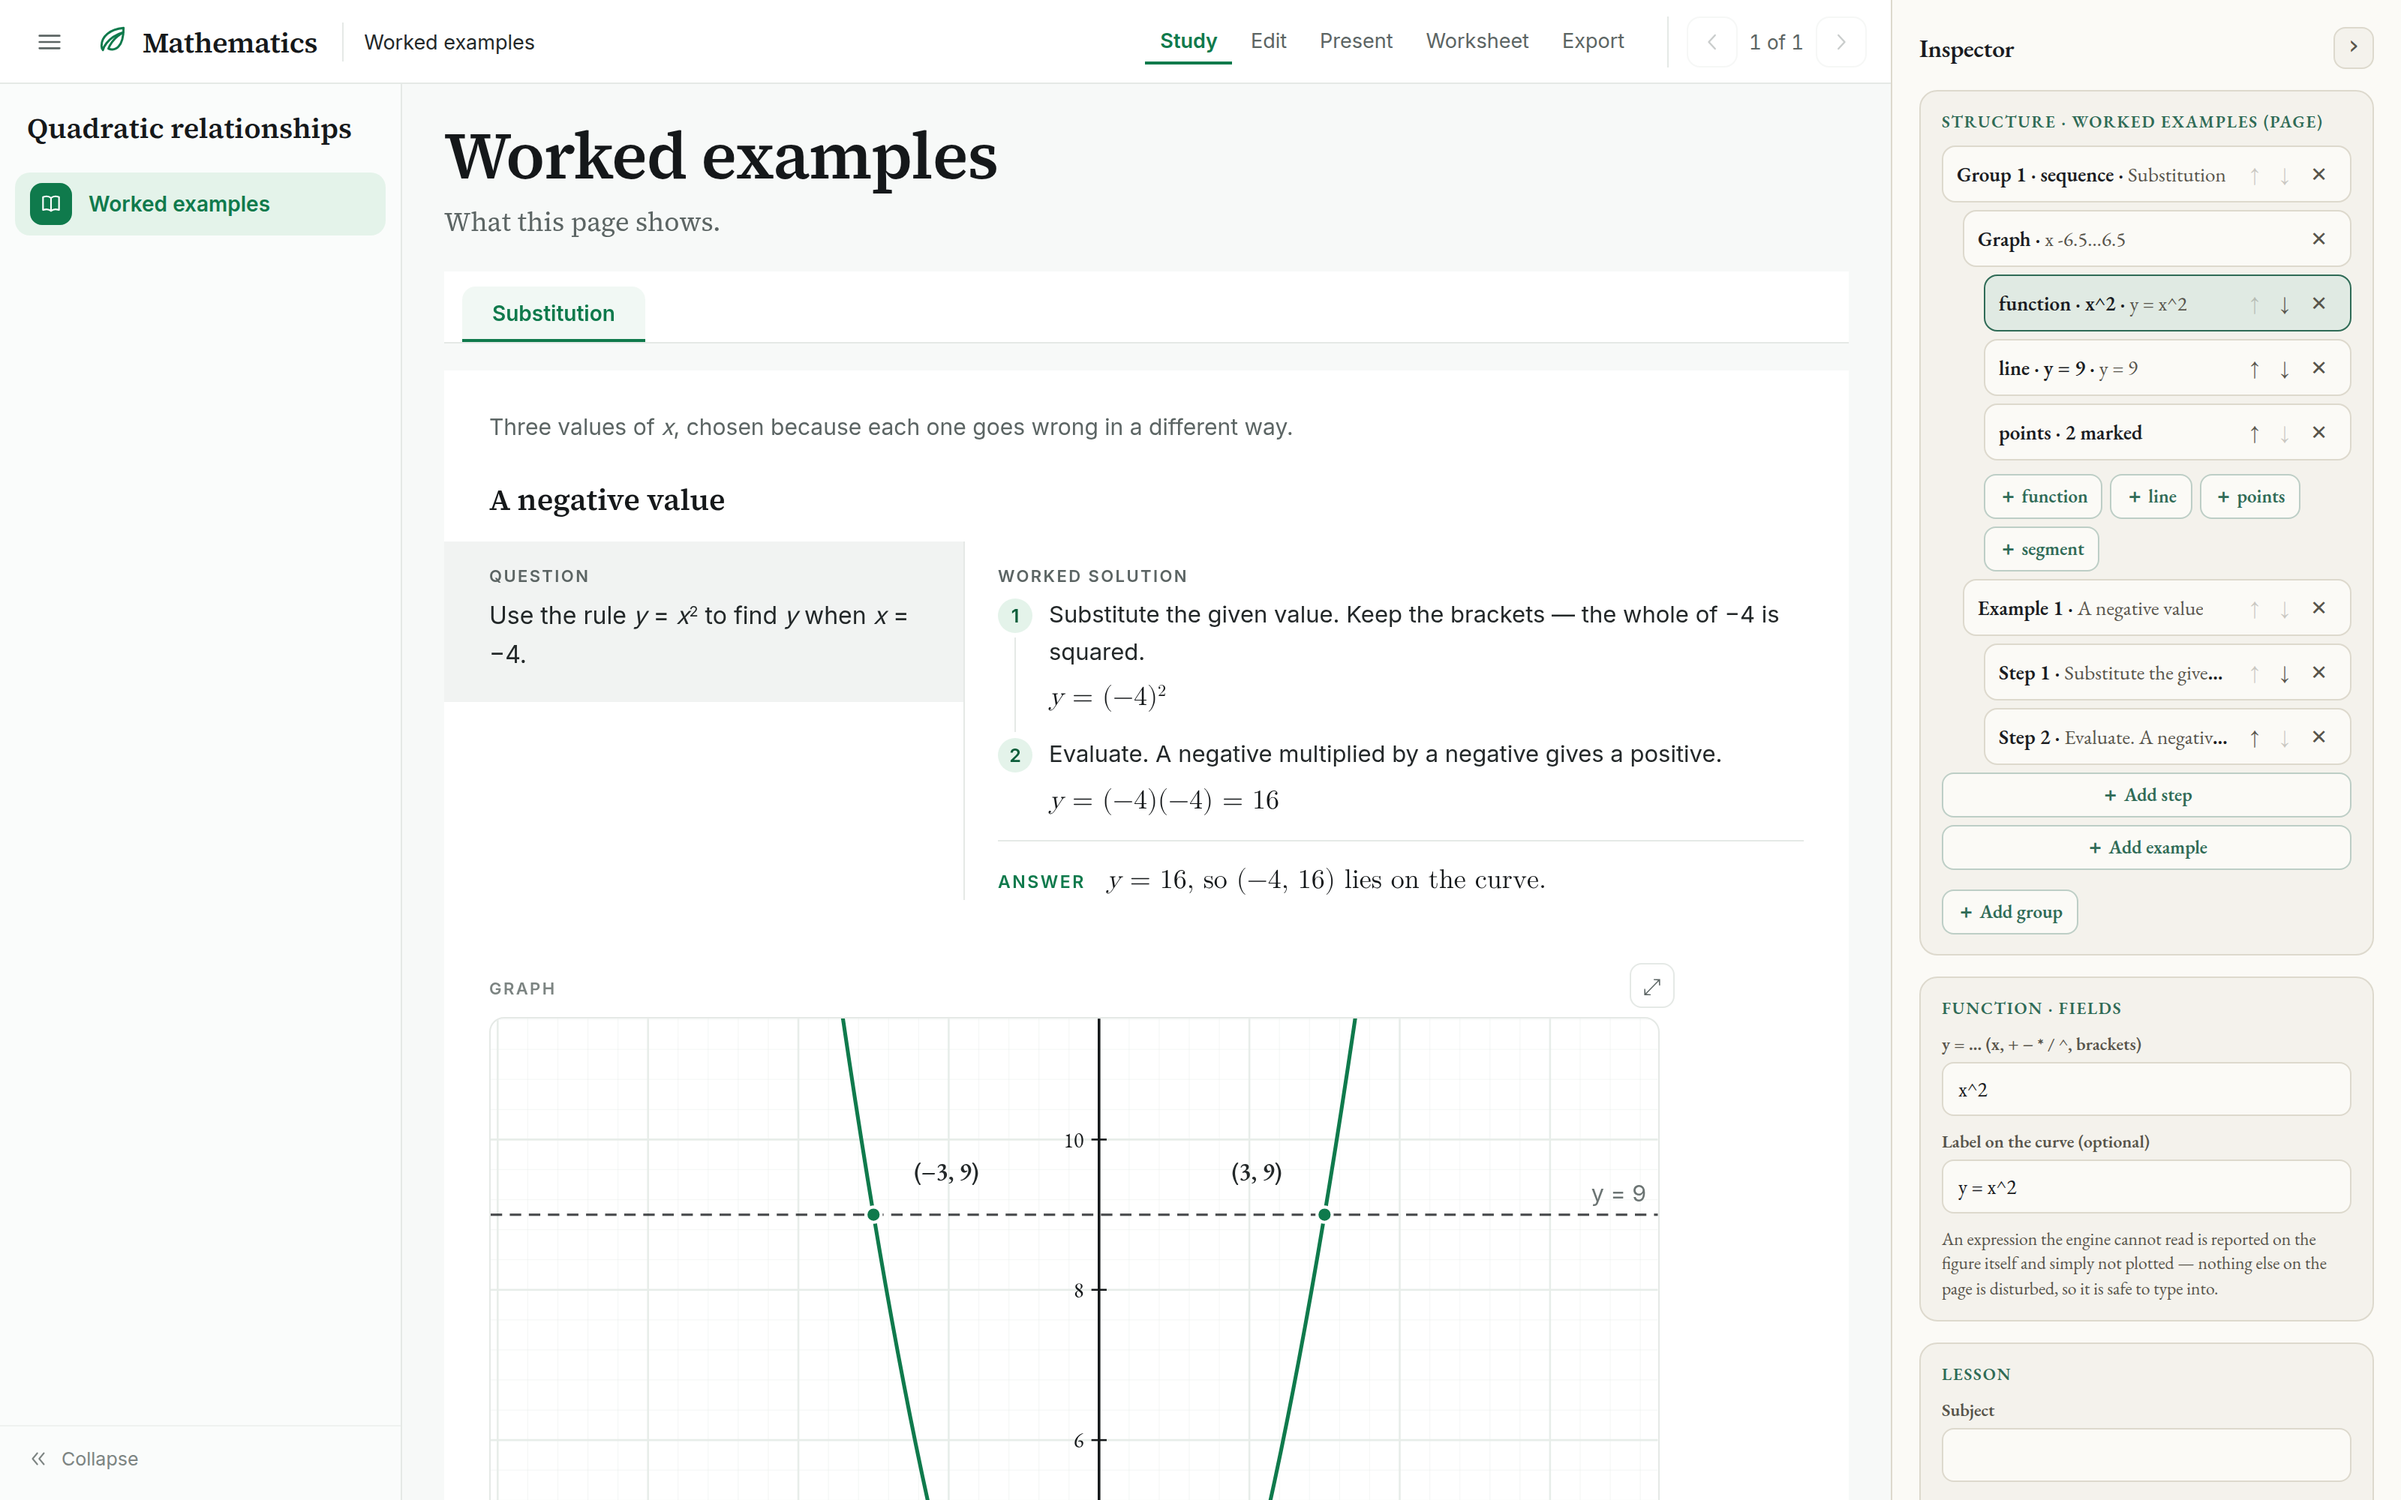
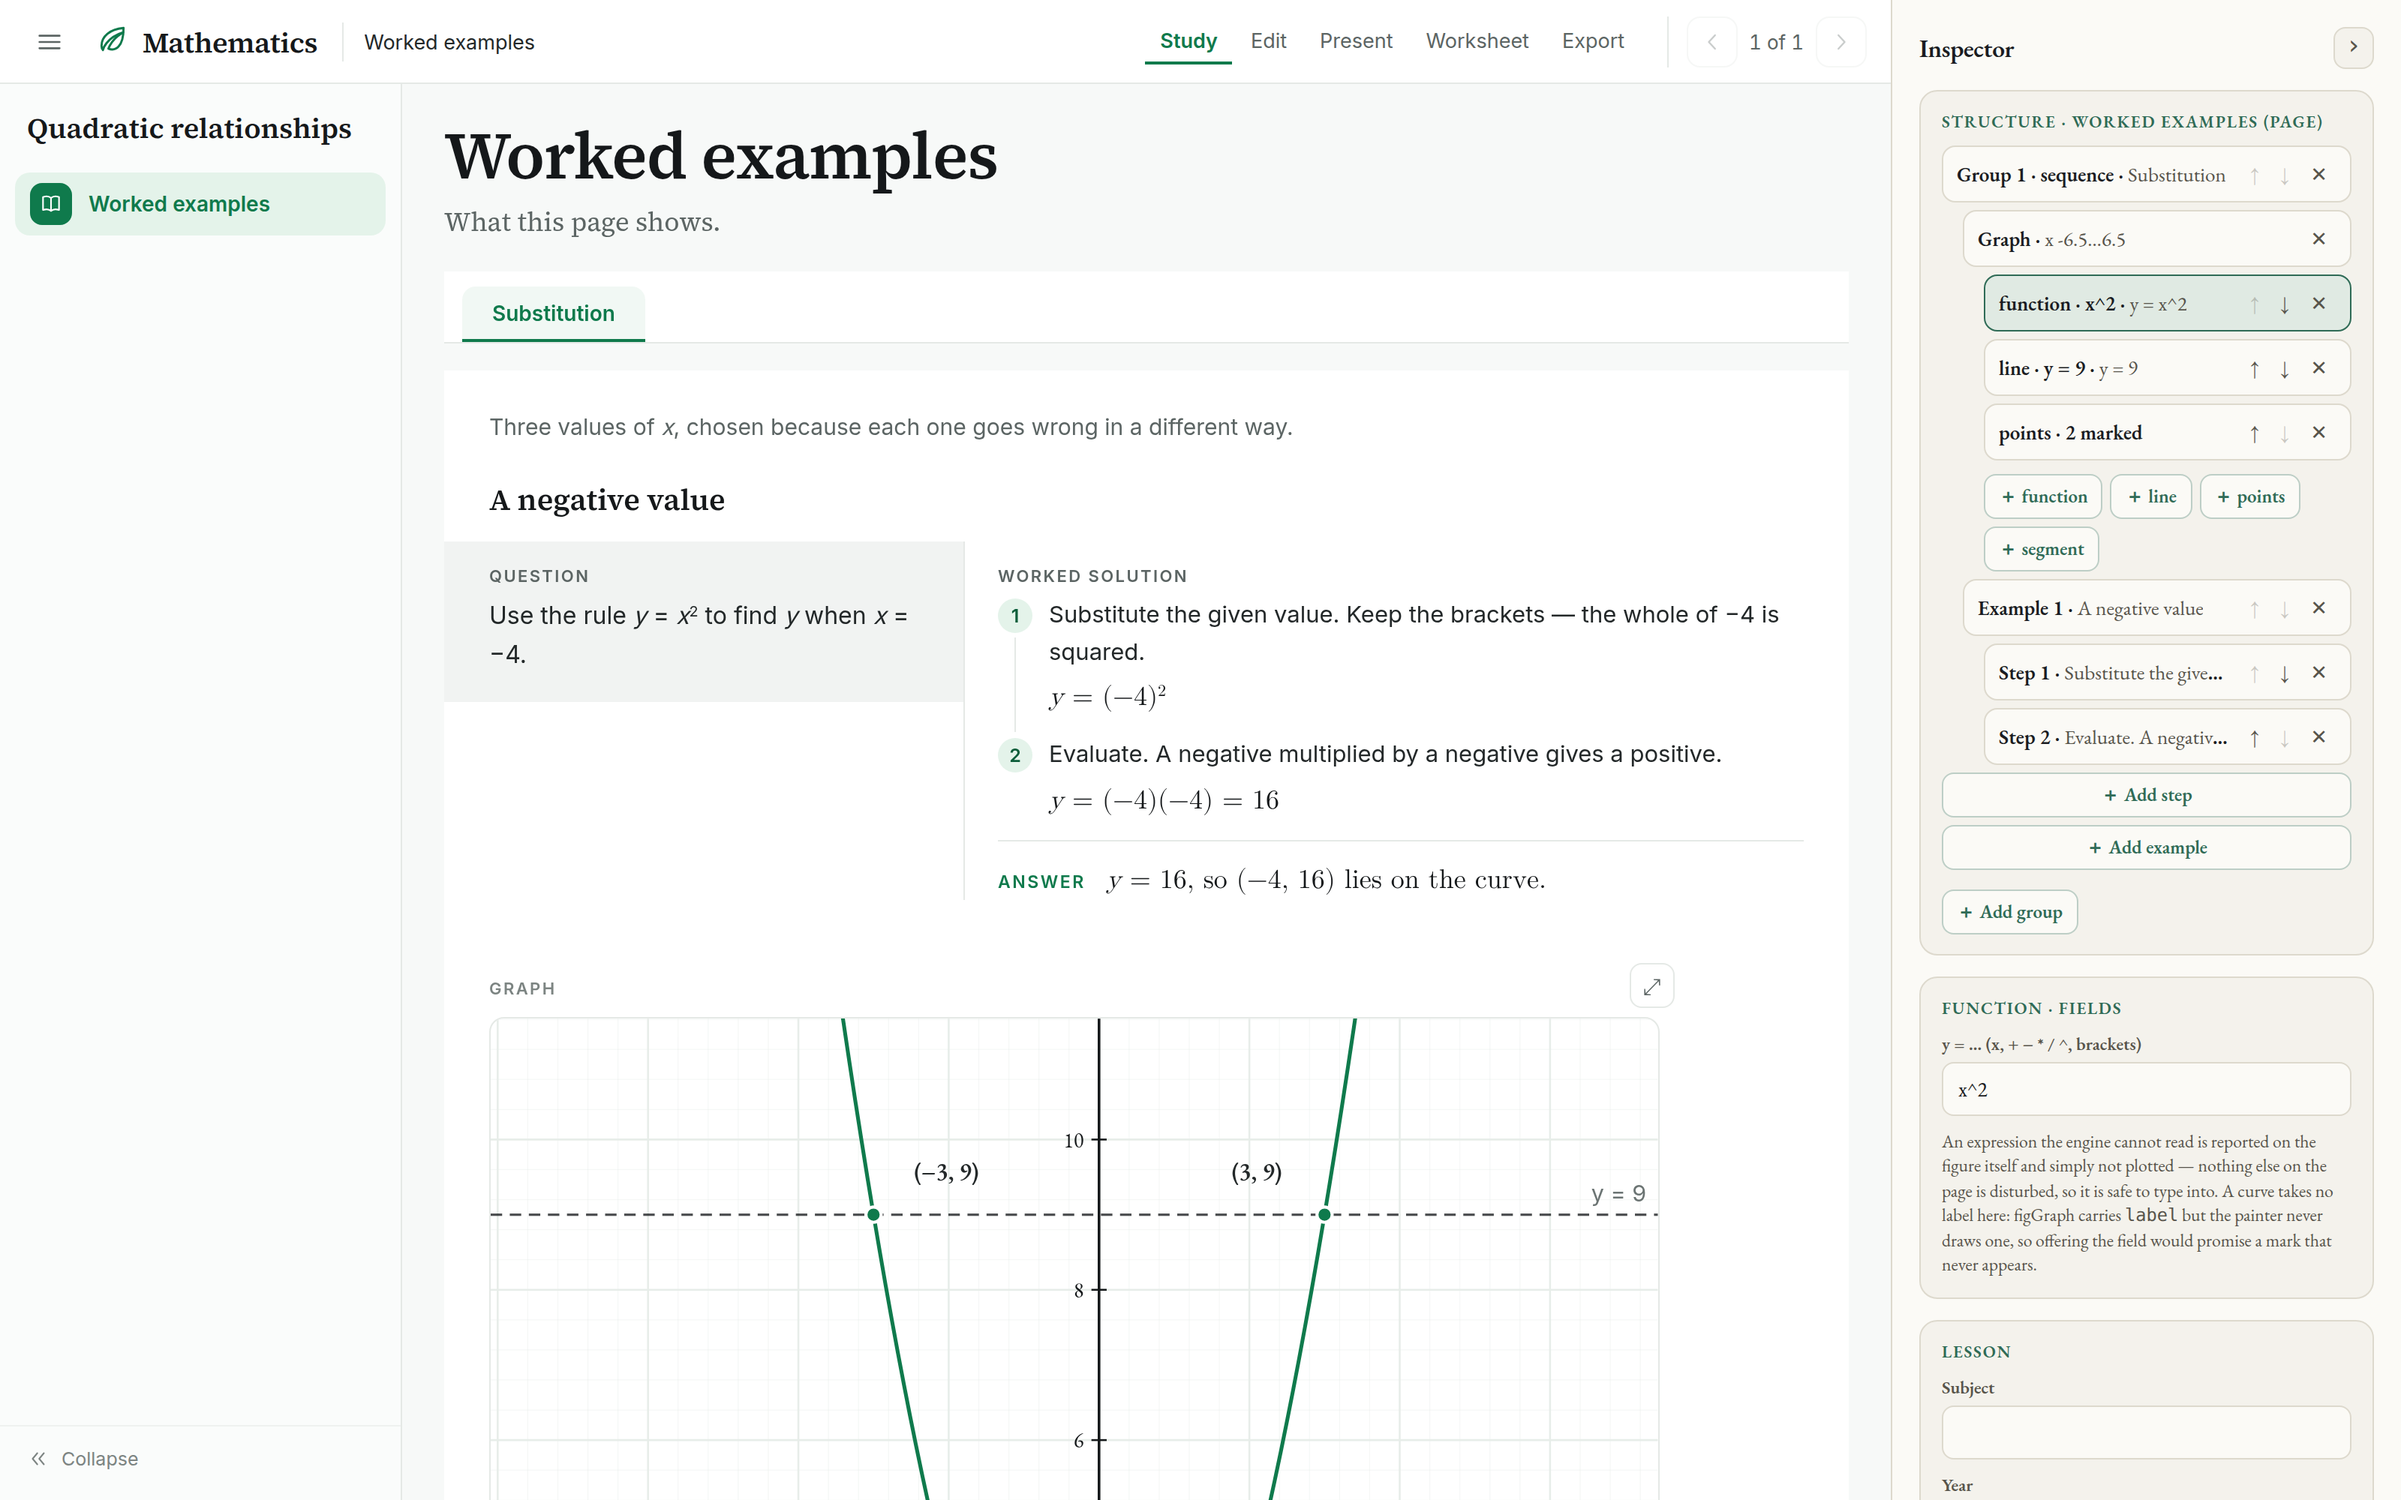
app: fix four defects in the graph editor, one destructive
An adversarial review of the Stage 3B editor against the renderer found four
faults that the gate had already passed. All four are one species — the editor
offering something the renderer does not honour — and the worst of them
destroyed data on an ordinary click.

THE DIRECTION CONTROL REPLACED THE WHOLE LINE OBJECT WITH A STRING. inSel always
emits data-bind, and the Direction select was given the OBJECT's path as its
bind target. A real click fires `input` and then `change`; the inspector's
generic [data-bind] handler listens on `input`, so it ran first and did
setP(LESSON, …objects.1, "x") — turning {type:'line',y:9,style:'dashed'} into the
bare string "x", which figGraph then reports as "object 2 ignored — unknown type
(missing)". The control now carries only data-mxaxis and no bind.

THE GATE PASSED IT BECAUSE IT DISPATCHED ONLY `change`. A select fires `input`
first, so the check was exercising a sequence the browser never produces. It now
fires both, in order, and fails on the old code. A control that tests a
convenient sequence rather than the real one is not a control — and this one had
been written in a file whose own header promises that every click is a real
click.

A CURVE LABEL THAT IS NEVER DRAWN. figGraph carries `label` on a function and
figSvgBody never paints it: no legend, no CSS class, and `c.label` consumed
nowhere. The field is withdrawn rather than left promising a mark that never
[…]

Changed region(s): [[0.8125, 0.744, 0.9688, 0.868], [0.8125, 0.899, 0.8438, 0.961]]

diff --git a/lesson-studio.html b/lesson-studio.html
@@ -5279,12 +5279,16 @@ function mxFigAt(g){ const r=Array.isArray(g&&g.relations)?g.relations:[];
 /* WHAT THE RENDERER READS, SAID BACK. figGraph accepts `f` with a legacy `expr` alias, `rows` with a legacy
    `points` alias, and `between` with legacy `from`/`to`; the form reads the same fallbacks so a lesson
    authored the old way still shows its values, and writes only the canonical field. */
+/* figGraph's OWN test for a number, not a looser one. `+null` and `+''` are both 0, so `isFinite(+v)` calls
+   a cleared field a healthy value while the renderer refuses it — the editor would then show "y = " as a
+   line and the page would say "give exactly one of x or y". One predicate, copied from figGraph. */
+function mxNum(v){ return typeof v==='number'?isFinite(v):(typeof v==='string'&&v.trim()!==''&&isFinite(+v)); }
 function mxObjF(o){ return o&&o.f!=null?o.f:(o&&o.expr!=null?o.expr:''); }
 function mxObjRows(o){ return (o&&Array.isArray(o.rows))?o.rows:((o&&Array.isArray(o.points))?o.points:[]); }
 function mxObjLabel(o){
   if(!o||!o.type) return 'object';
   if(o.type==='function') return 'function · '+(mxObjF(o)||'(empty)');
-  if(o.type==='line') return 'line · '+(isFinite(+o.y)?('y = '+o.y):(isFinite(+o.x)?('x = '+o.x):'(no x or y)'));
+  if(o.type==='line') return 'line · '+(mxNum(o.y)?('y = '+o.y):(mxNum(o.x)?('x = '+o.x):'(no x or y)'));
   if(o.type==='points') return 'points · '+mxObjRows(o).length+' marked';
   if(o.type==='segment'){ const b=Array.isArray(o.between)?o.between:[o.from,o.to]; return 'segment · '+(b[0]||'?')+'–'+(b[1]||'?'); }
   return String(o.type);
@@ -5353,21 +5357,22 @@ function mxOutline(i,s,sel){
       if(S.kind==='f') return `<div class="isec"><div class="isec-h">Graph · the window it is drawn in</div>
         ${ig('mxf.x0',sel,inT('x from',`${fb}.domain.xMin`,d.xMin))}${ig('mxf.x1',sel,inT('x to',`${fb}.domain.xMax`,d.xMax))}
         ${ig('mxf.y0',sel,inT('y from',`${fb}.domain.yMin`,d.yMin))}${ig('mxf.y1',sel,inT('y to',`${fb}.domain.yMax`,d.yMax))}
-        ${ig('mxf.asp',sel,inSel('Unit scale',`${fb}.aspect`,F.fig.aspect==='equal'?'equal':'stretch',
-          [['equal','Equal — one x-unit is one y-unit'],['stretch','Stretch to the box']]))}
         ${ig('mxf.grid',sel,inSel('Grid',`${fb}.grid`,F.fig.grid==='hidden'?'hidden':'shown',[['shown','Shown'],['hidden','Hidden']]))}
         ${ig('mxf.co',sel,inSel('Tap-to-read callouts',`${fb}.callouts`,F.fig.callouts==='hidden'?'hidden':'shown',[['shown','Shown'],['hidden','Hidden']]))}
-        <div class="muted small">The window decides the plane's shape, and the shape decides the composition — a wide window earns the full width, everything else the centred stage. That is the approved rule, so it is meant to move.</div></div>`;
+        <div class="muted small">One x-unit is one y-unit: mxFigPolicy holds every mathematics graph to an equal scale, so there is no choice to offer here.
+        The window decides the plane's shape, and the shape decides the composition — a wide window earns the full width, everything else the centred stage. That is the approved rule, so it is meant to move.</div></div>`;
       const OB=Array.isArray(F.fig.objects)?F.fig.objects:[], o=OB[S.e];
       if(!o) return `<div class="ihint">That object is gone — select another.</div>`;
       const ob=`${fb}.objects.${S.e}`;
       if(o.type==='function') return `<div class="isec"><div class="isec-h">Function · fields</div>
         ${ig('mxo.f',sel,inT('y = …  (x, + − * / ^, brackets)',`${ob}.f`,mxObjF(o)))}
-        ${ig('mxo.fl',sel,inT('Label on the curve (optional)',`${ob}.label`,o.label))}
-        <div class="muted small">An expression the engine cannot read is reported on the figure itself and simply not plotted — nothing else on the page is disturbed, so it is safe to type into.</div></div>`;
-      if(o.type==='line'){ const axis=isFinite(+o.y)?'y':'x';
+        <div class="muted small">An expression the engine cannot read is reported on the figure itself and simply not plotted — nothing else on the page is disturbed, so it is safe to type into.
+        A curve takes no label here: figGraph carries <code>label</code> but the painter never draws one, so offering the field would promise a mark that never appears.</div></div>`;
+      if(o.type==='line'){ const axis=mxNum(o.y)?'y':(mxNum(o.x)?'x':'y');
         return `<div class="isec"><div class="isec-h">Reference line · fields</div>
-        ${ig('mxo.ax',sel,inSel('Direction',`${ob}`,axis,[['y','Horizontal — y = k'],['x','Vertical — x = k']],`data-mxaxis="${ob}"`))}
+        ${ig('mxo.ax',sel,`<label>Direction</label><select class="ii" data-mxaxis="${ob}">`
+          +[['y','Horizontal — y = k'],['x','Vertical — x = k']].map(([v,l])=>`<option value="${v}"${v===axis?' selected':''}>${esc(l)}</option>`).join('')
+          +`</select>`)}
         ${ig('mxo.at',sel,inT(axis==='y'?'y =':'x =',`${ob}.${axis}`,axis==='y'?o.y:o.x))}
         ${ig('mxo.ll',sel,inT('Label (optional)',`${ob}.label`,o.label))}
         ${ig('mxo.ls',sel,inSel('Style',`${ob}.style`,o.style==='solid'?'solid':'dashed',[['dashed','Dashed'],['solid','Solid']]))}</div>`; }
@@ -5465,7 +5470,7 @@ function mxOutlineWire(i){
      the direction MOVES the value rather than adding a second key, and the editor can never author the
      broken state it would then have to explain. */
   ins.querySelectorAll('[data-mxaxis]').forEach(sl=>sl.onchange=()=>{ const o=getP(LESSON,sl.dataset.mxaxis);
-    const want=sl.value, had=isFinite(+o.y)?'y':(isFinite(+o.x)?'x':null);
+    const want=sl.value, had=mxNum(o.y)?'y':(mxNum(o.x)?'x':null);
     if(want===had) return; const v=had?o[had]:0; delete o.x; delete o.y; o[want]=v; renderSlide(); });
   ins.querySelectorAll('[data-mxshow]').forEach(c=>c.onchange=()=>{
     const [path,key]=c.dataset.mxshow.split(':'); const st=getP(LESSON,path);

diff --git a/CHANGELOG.md b/CHANGELOG.md
@@ -7,7 +7,34 @@ All notable changes to **Lesson Studio** are recorded here. Format follows
 
 ## [Unreleased]
 
-### Added
+### Fixed
+- **Four defects in the Stage 3B graph editor, one of them destructive** — found by an adversarial review of
+  the code against the renderer, after the gate had already passed it.
+  - **The direction control replaced the whole line object with a string.** `inSel` always emits
+    `data-bind`, and the Direction select was given the OBJECT's path as its bind target. A real click fires
+    `input` and then `change`; the inspector's generic `[data-bind]` handler listens on `input`, so it ran
+    first and did `setP(LESSON, …objects.1, "x")` — turning `{type:'line',y:9,style:'dashed'}` into the bare
+    string `"x"`, which `figGraph` then reports as "object 2 ignored — unknown type (missing)". The control
+    now carries only `data-mxaxis` and no bind.
+  - **THE GATE PASSED IT because it dispatched only `change`.** A select fires `input` first, so the check
+    was exercising a sequence the browser never produces. It now fires both, in order — and fails on the old
+    code. A control that tests a convenient sequence instead of the real one is not a control.
+  - **A curve label that is never drawn.** `figGraph` carries `label` on a function and `figSvgBody` never
+    paints it — there is no legend and no CSS class for one. The field is withdrawn rather than left
+    promising a mark that never appears. (The shipping lesson already carries two such labels in its JSON;
+    they are and always were invisible. Drawing them is a renderer change and the maintainer's call.)
+  - **A unit-scale choice the page overrides.** `mxFigPolicy` forces `aspect:'equal'` on every mathematics
+    graph unless the undocumented `scaleMode:"authored"` is set, so a "Stretch" option changed nothing. The
+    control is replaced by a statement of the rule.
+  - **A cleared value read as a healthy line.** The editor tested `isFinite(+o.y)`, but `+null` and `+''`
+    are both 0, while `figGraph`'s own `num()` rejects them. Clearing the field left the outline reading
+    "line · y = " while the figure said "give exactly one of x or y". All three sites now use the
+    renderer's predicate, copied.
+
+  Three new assertions cover exactly these: the real event pair, a cleared value, and a sweep that the form
+  offers no field the renderer ignores. 30/30.
+
+### Added (stage 3B)
 - **Stage 3B — the mathematics inside a graph is editable** (`lesson-studio.html`,
   `scripts/verify-mx-authoring.mjs` now 28 checks). The graph and its objects are rows in the same outline
   as everything else, with the same reorder and remove, and the fields below are the same helpers on

diff --git a/HANDOFF.md b/HANDOFF.md
@@ -795,6 +795,21 @@ renderer is referenced.
   nothing throws and no other object is disturbed. So the editor needs NO debounce and NO validation of its
   own — adding either would only duplicate, worse, what the engine already says.
 
+  **WHAT THE 3B REVIEW CAUGHT, AND THE RULE IT RESTATES.** The editor shipped with four defects that its own
+  gate had passed. THE WORST: `inSel` always emits `data-bind`, so giving the Direction select the OBJECT's
+  path made a real click overwrite `{type:'line',y:9}` with the string `"x"` — because a select fires
+  `input` BEFORE `change`, and the inspector's generic handler listens on `input`. The gate dispatched only
+  `change` and so tested a sequence the browser never produces. DRIVE THE REAL EVENT SEQUENCE, NOT A
+  CONVENIENT ONE. The other three were all the same species — a field offered that the renderer does not
+  honour: a curve `label` figGraph carries but figSvgBody never draws; an `aspect` choice mxFigPolicy
+  overrides to `equal` on every mathematics graph; and `isFinite(+v)` where figGraph uses its own `num()`,
+  so a cleared value read as a healthy line. ASK THE RENDERER WHAT IT HONOURS, THEN OFFER EXACTLY THAT.
+
+  **TWO THINGS THE RENDERER AND ITS SCHEMA DISAGREE ABOUT — the maintainer's call, not the editor's:**
+  a function's `label` is documented in SCHEMA.md and accepted by figGraph but never painted; and
+  `scaleMode:"authored"`, the only way to opt a mathematics graph out of equal scale, appears nowhere in
+  SCHEMA.md.
+
   **STILL TO AUTHOR** — 3C: the table of values (stub/head/rows/cells), then rebuild the whole quadratics
   lesson through the UI and compare it SEMANTICALLY (not byte-identically) with
   `docs/atlas/lesson/quadratics.app.json`, and render it in Study, Edit and Present. Desktop authoring only.
